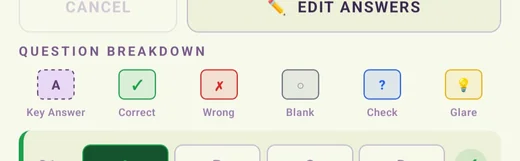
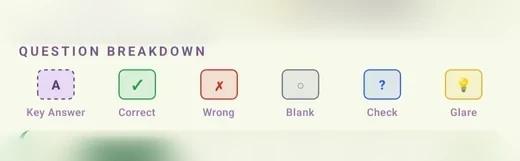
s

diff --git a/support/quick-start/use-the-key-generator/index.html b/support/quick-start/use-the-key-generator/index.html
@@ -17,25 +17,8 @@
   <link rel="preconnect" href="https://fonts.googleapis.com">
   <link rel="preconnect" href="https://fonts.gstatic.com" crossorigin>
   <link href="https://fonts.googleapis.com/css2?family=Manrope:wght@400;500;600;700;800&display=swap" rel="stylesheet">
-  <link rel="stylesheet" href="../../../css/main.css">
-  <style>
-    .tut-screenshot {
-      background: #f0ebf8;
-      border: 2px dashed rgba(94,64,116,0.3);
-      border-radius: var(--radius-lg);
-      min-height: 200px;
-      margin: 16px 0 32px;
-      display: flex;
-      align-items: center;
-      justify-content: center;
-      padding: 32px 24px;
-      text-align: center;
-      color: var(--text-secondary);
-      font-size: 13px;
-      font-style: italic;
-      line-height: 1.6;
-    }
-  </style>
+  <link rel="stylesheet" href="../../../css/main.css?v=1">
+  <script src="../../../js/tut-lightbox.js?v=1" defer></script>
 </head>
 <body class="util-body">
 
@@ -56,16 +39,29 @@
 
   <h2 class="util-h2">1. Choose your sheet format</h2>
   <p class="util-p">Visit <a href="https://camgrader.com/keygen">camgrader.com/keygen</a> and choose the bubble sheet format that matches the one you'll use with your class (for example, by number of questions).</p>
-  <div class="tut-screenshot">Screenshot: Key Generator format selection step</div>
+  <img class="tut-shot tut-shot-full tut-shot-wide" src="../../../images/support/quick-start/use-the-key-generator/01-format.webp" alt="Answer Key Generator page with the 25-Q sheet format selected">
+
+  <hr class="tut-divider">
 
   <h2 class="util-h2">2. Enter your answers</h2>
   <p class="util-p">Type or paste in your answer key, or upload a CSV. The Key Generator accepts however many answers your test actually has - you don't need to fill every row on the sheet format you picked.</p>
-  <div class="tut-screenshot">Screenshot: answer entry step, showing paste and CSV upload options</div>
+  <div class="tut-shots-row">
+    <img class="tut-shot tut-shot-full" src="../../../images/support/quick-start/use-the-key-generator/02-manual-entry.webp" alt="Copy / Paste tab with answers entered one question per line, in the format question number, comma, letter">
+    <img class="tut-shot tut-shot-full" src="../../../images/support/quick-start/use-the-key-generator/02-csv-upload.webp" alt="Upload CSV tab with a drag-and-drop area and a Download template CSV button">
+  </div>
 
-  <h2 class="util-h2">3. Get your ready-to-scan sheet</h2>
+  <hr class="tut-divider">
+
+  <h2 class="util-h2">3. Confirm your answer key</h2>
+  <p class="util-p">Before generating the sheet, CamGrader shows every question so you can double-check it against what you entered. Anything left blank is flagged so you can catch a missed question before you scan.</p>
+  <img class="tut-shot tut-shot-full tut-shot-wide" src="../../../images/support/quick-start/use-the-key-generator/03-confirm-key.webp" alt="Confirm Answer Key screen listing Q1 through Q25, with missing questions highlighted in red">
+
+  <hr class="tut-divider">
+
+  <h2 class="util-h2">4. Get your ready-to-scan sheet</h2>
   <p class="util-p">The Key Generator renders an on-screen answer sheet with the correct bubbles already filled in. From here you can either scan it directly off your screen, or print it and scan the printout.</p>
   <p class="util-p">Back in the CamGrader app, start a new test, choose <strong>Scan Answer Key</strong>, and scan this sheet the same way you'd scan any bubble sheet.</p>
-  <div class="tut-screenshot">Screenshot: the finished Key Generator sheet, ready to scan</div>
+  <img class="tut-shot tut-shot-full tut-shot-wide" src="../../../images/support/quick-start/use-the-key-generator/04-scan-sheet.webp" alt="Scan This Sheet page with the generated answer key bubble sheet, ready to scan from the screen">
 
   <p class="util-p">That's it - no hand-bubbling a blank key sheet required. See <a href="../create-your-first-test/">Create Your First Test</a> for how this fits into setting up a full test.</p>
 
@@ -75,6 +71,13 @@
     <h2 class="util-h2">Still need help?</h2>
     <p class="util-p">Can't find what you're looking for? We're happy to help.</p>
     <a href="../../../contact" class="btn btn-primary">Contact us</a>
+  </div>
+</div>
+
+<div class="tut-lightbox">
+  <div class="tut-lightbox-inner">
+    <button type="button" class="tut-lightbox-close" aria-label="Close">&times;</button>
+    <img src="" alt="">
   </div>
 </div>
 

diff --git a/support/quick-start/scan-your-first-test/index.html b/support/quick-start/scan-your-first-test/index.html
@@ -65,8 +65,8 @@
     <h2 class="util-h2">Reading the Question Breakdown colors</h2>
     <p class="util-p">After a scan, each student's results page includes a Question Breakdown grid that color-codes every question:</p>
     <p class="util-p"><strong>Green</strong> - answered correctly. <strong>Red</strong> - answered, but incorrect. <strong>Gray</strong> - left blank. <strong>Yellow</strong> - detected as blank, but there may be faint glare or a light mark worth a second look. <strong>Blue</strong> - the mark was ambiguous (for example, two bubbles filled in) and needs a manual check.</p>
-    <img class="tut-shot tut-shot-full" src="../../../images/support/quick-start/scan-your-first-test/03-question-breakdown-legend.webp" alt="Question Breakdown legend showing Key Answer, Correct, Wrong, Blank, Check, and Glare icons">
     <p class="util-p">On a red or blank question, you may also see a dashed outline around a different bubble - that's the correct answer, shown for quick comparison so you don't have to look it up separately.</p>
+    <img class="tut-shot tut-shot-full" src="../../../images/support/quick-start/scan-your-first-test/03-question-breakdown-legend.webp" alt="Question Breakdown legend showing Key Answer, Correct, Wrong, Blank, Check, and Glare icons">
   </div>
 
   <p class="util-p">If a question is flagged blue or yellow, you can tap it to review the actual mark and correct it if needed - see <a href="../../deploy-your-first-test/editing-student-results/">Editing Student Results</a>.</p>

diff --git a/css/main.css b/css/main.css
@@ -1090,6 +1090,22 @@ textarea.form-input { resize: vertical; min-height: 140px; line-height: 1.6; }
   margin-top: 12px;
 }
 
+.tut-shot-full.tut-shot-wide {
+  max-width: 100%;
+}
+
+.tut-shots-row {
+  display: flex;
+  flex-wrap: wrap;
+  gap: 16px;
+  margin-top: 12px;
+}
+.tut-shots-row .tut-shot-full {
+  flex: 1 1 260px;
+  max-width: none;
+  margin-top: 0;
+}
+
 @media (max-width: 700px) {
   .tut-step { flex-direction: column; }
   .tut-shots { max-width: 100%; }
